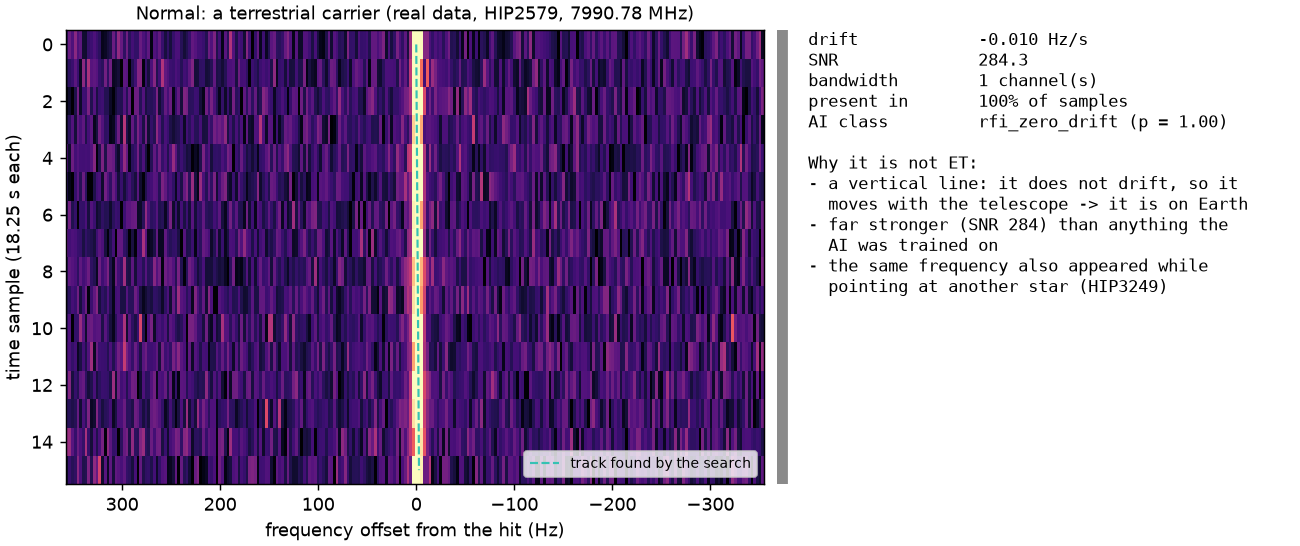
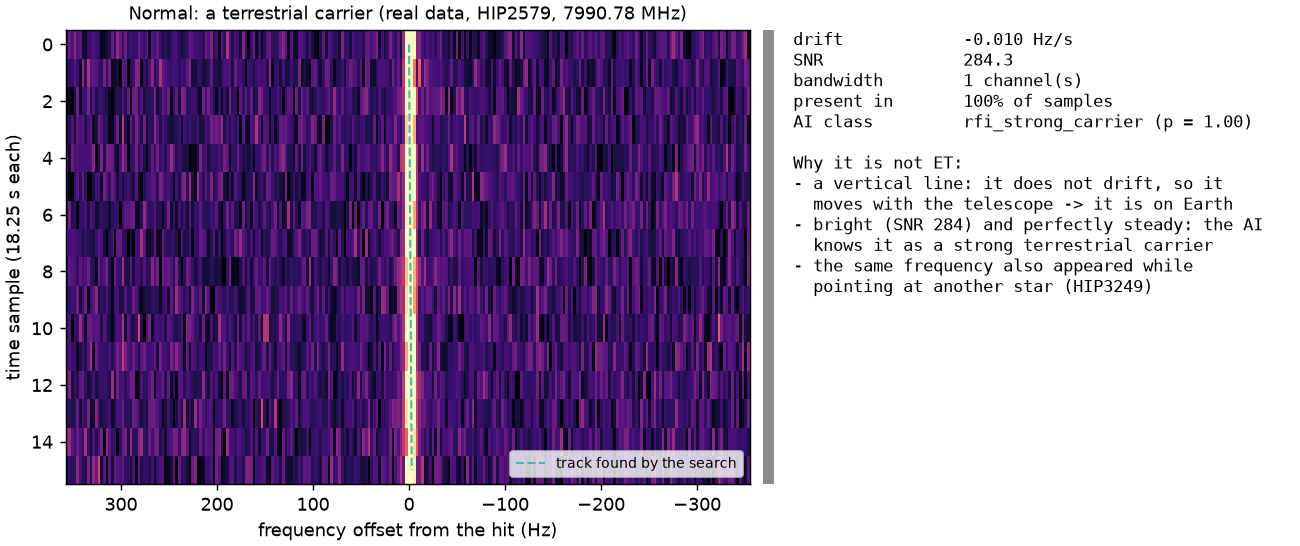
fix

diff --git a/tests/test_model_and_limits.py b/tests/test_model_and_limits.py
@@ -149,12 +149,12 @@ def test_score_candidates_reports_disabled_ai():
 def test_far_out_of_range_snr_is_not_trusted_as_technosignature():
     """B8: the classifier saturates at p=1 for any strong drifting carrier."""
     rows = pd.concat([_hit_frame("x")] * 2, ignore_index=True)
-    rows["snr"] = [20.0, 10_000.0]
+    rows["snr"] = [20.0, 100_000.0]
     rows["channel"] = [5, 900]
     for label in LABELS:
         rows[f"p_{label}"] = 1.0 if label == "technosignature_like" else 0.0
     cands = score_candidates([{"hits": rows.to_dict("records")}], SearchConfig())
-    strong = cands[cands["snr"] == 10_000.0].iloc[0]
+    strong = cands[cands["snr"] == 100_000.0].iloc[0]
     normal = cands[cands["snr"] == 20.0].iloc[0]
     assert strong["ai_class"] == "out_of_distribution" and strong["interest"] <= 50
     assert strong["interest"] <= 30, "B28: demoted like a stationary tone, not just capped"
@@ -323,7 +323,7 @@ def test_partial_range_units_are_padded_beyond_the_range_edges():
 def test_far_out_of_range_snr_is_capped_without_a_classifier():
     """B8 review: the heuristic fallback trusted a SNR-10,000 carrier just as blindly."""
     rows = _hit_frame("x")
-    rows["snr"] = 10_000.0
+    rows["snr"] = 100_000.0
     cands = score_candidates([{"hits": rows.to_dict("records")}], SearchConfig(use_ai=False))
     assert cands.iloc[0]["interest"] <= 50
 

diff --git a/src/ai_seti/ai/model.py b/src/ai_seti/ai/model.py
@@ -27,10 +27,10 @@ DEFAULT_MODEL = Path(__file__).with_name("hit_classifier.joblib")
 
 logger = logging.getLogger(__name__)
 
-# Highest hit SNR in the bundled model's training set (`ai-seti train` defaults: seed 0,
-# 500 per class; reproduced 2026-10-03). Used for models whose metadata predates the
-# recorded "snr_max". Above OOD_SNR_FACTOR x this, the trees only extrapolate flat, so
-# p(technosignature_like) means nothing there (backlog B8).
+# Fallback for models trained before "snr_max" was recorded in their metadata: the highest
+# hit SNR of the pre-2026-10-03 bundled model. Current models carry their own value. Above
+# OOD_SNR_FACTOR x the training maximum the trees only extrapolate flat, so p(...) means
+# nothing there.
 TRAINED_SNR_MAX = 40.24
 OOD_SNR_FACTOR = 3.0
 

diff --git a/docs/make_figures.py b/docs/make_figures.py
@@ -88,8 +88,8 @@ def normal() -> None:
                 "Why it is not ET:",
                 "- a vertical line: it does not drift, so it",
                 "  moves with the telescope -> it is on Earth",
-                f"- far stronger (SNR {h.snr:,.0f}) than anything the",
-                "  AI was trained on",
+                f"- bright (SNR {h.snr:,.0f}) and perfectly steady: the AI",
+                "  knows it as a strong terrestrial carrier",
                 "- the same frequency also appeared while",
                 "  pointing at another star (HIP3249)"],
             OUT / "signal_normal.png", "#8a8a8a")

diff --git a/README.md b/README.md
@@ -160,7 +160,7 @@ impostor.
 | **Only at the target** | A signal from a star is only seen when the telescope points at that star. | Same frequency, or a busy band, already seen at *another* star → `multi_target`; the ON/OFF cadence (`cadence = failed` cuts the score to a fifth) | anything picked up through the side of the beam |
 | **Not an instrument artefact** | GBT coarse channels make mirror copies of strong tones around each channel centre. | `mirror_pair`, `mirror_image` (score cut to a fifth) | the receiver's own spectral images |
 | **Outside known interference bands** | GPS, Galileo, Iridium, Inmarsat and others own fixed bands. | `known_rfi_band` (score halved) | satellites |
-| **Plausible strength** | The AI was trained on SNRs up to ~40. Far stronger tones are almost always nearby transmitters. | `out_of_distribution`: score cut by 70% and capped at 50 | strong terrestrial carriers |
+| **Plausible strength** | Strong, steady, slowly drifting tones are almost always nearby transmitters. | the AI's `rfi_strong_carrier` class; beyond 3× the strongest training signal, `out_of_distribution` (score cut by 70% and capped at 50) | strong terrestrial carriers |
 
 **What the drift tells you.** Drift is acceleration along the line of sight:
 `a = c × drift / frequency`. Earth's own rotation gives about 0.03 m/s², which is about
@@ -231,8 +231,7 @@ The technical one-screen version is [How a work unit is processed](#how-a-work-u
 runs the strongest test, pointing away and back (the ON/OFF cadence), automatically when it
 processes the *target* scan of an archive cadence. It searches the same channels in the other
 five scans, and each hit's `cadence` column says `passed`, `failed`, `untestable` (an OFF
-pointing, or too few scans) or `not_run`. A pass still needs a re-observation, and the
-classifier has only seen slower drifts than the search covers (backlog B3).
+pointing, or too few scans) or `not_run`. A pass still needs a re-observation.
 
 ## Where unusual signals end up, and how to report them
 
@@ -282,7 +281,7 @@ one; it only changes labels and the order of the list.
 | Is there a narrow line in the data, and how does it drift? | **search** (deterministic) | bandpass removal, Taylor-tree de-Doppler, SNR threshold |
 | How wide, steady and wobbly is it? | **search** | measured features of each hit |
 | Is it in a satellite band, a mirror image, seen at another star, unmeasurable in drift? | **search** (rules) | the flags in `candidates.csv` |
-| Does it *look like* an ET-like tone or a known kind of interference? | **AI: classifier** | gradient-boosted trees on the features + a 16×16 de-drifted image, trained on simulated hits that went through this exact pipeline; 6 classes (`technosignature_like`, 4 interference shapes, `noise`) |
+| Does it *look like* an ET-like tone or a known kind of interference? | **AI: classifier** | gradient-boosted trees on the features + a 16×16 de-drifted image, trained on simulated hits that went through this exact pipeline, over the full drift range; 7 classes (`technosignature_like`, 5 interference types including `rfi_strong_carrier`, `noise`) |
 | Is it unlike everything else in this observation? | **AI: anomaly detector** | an isolation forest fitted fresh on each run's hits; 0–1 |
 | How interesting is it overall? | **both** | `interest = 100 × (0.55 × p(ET-like) + 0.20 × f(SNR) + 0.25 × anomaly)`, then the rule penalties (zero drift ×0.3, RFI band ×0.5, wider than 8 channels ×0.4, mirror ×0.2, seen elsewhere ×0.2) and, for `out_of_distribution`, ×0.3 and a cap of 50 |
 
@@ -449,8 +448,8 @@ noise-only 16×16384 chunks raise any detection; 20 trials per cell; `ai-seti be
 
 **Demo:** 1,048,576 channels in **2.4 s wall / 2.3 s CPU on one core** (1.8 s wall on 4
 workers); the three hidden ET-like tones are recovered and rank **#1, #2 and #3**, all
-classified `technosignature_like`, ahead of the strongest RFI (interest 74–82 vs 28–32).
-Classifier: **95.7%** held-out accuracy on 6 classes (simulated; 2500 examples).
+classified `technosignature_like`, ahead of the strongest RFI (interest 72–78 vs 33, with the 2026-10-03 model).
+Classifier: **97.7%** held-out accuracy on 7 classes (simulated; 3,500 examples, 500 per class, drift up to 32 channels/step).
 
 ## How a work unit is processed
 
@@ -475,17 +474,18 @@ run level: isolation-forest anomaly → RFI flags → interest score → report
 - `max_drift_ch_per_step` (default 32) bounds the search. At a GBT coarse channel's
   ~18 s / 2.79 Hz resolution, 4 Hz/s is already ~26 channels per step, so lowering this
   below that number silently throws away signals the rate limit allows.
-- **`drift_search` will not tell you when it could not search the range you asked for.** If
-  the searched drift clamps to zero — a `foff` passed in Hz instead of MHz, a cap below the
-  rate, or a resolution too coarse for the requested drift — it reports *no hits* instead of
-  flagging a degraded run. Absence of detections is not evidence of absence until you have
-  checked the range was searchable. Tracked as [backlog B1/B2](backlog.md).
-- **The classifier is trained on drift of 0.05–6 channels/step but production needs up to
-  ~26.** Its class labels are least reliable in the fast-drift regime the search spends most
-  of its time in, and the published 95.7% accuracy is measured on the training distribution,
-  not on production drift. Tracked as [backlog B3](backlog.md).
-- BL archive API and Range streaming against the real servers were not tested from the
-  development sandbox (network-restricted); Range streaming is tested locally.
+- **A search narrower than asked for is reported, not hidden.** If a work unit is too narrow
+  for the requested drift, `drift_search` logs a warning and `metadata.json` records the drift
+  range actually covered (`drift_searched_hz_s`). A channel width passed in Hz instead of MHz is
+  rejected outright.
+- **The classifier's numbers are measured on simulated data.** It is trained over the whole
+  production drift range (log-uniform up to 32 channels/step) and includes a strong-carrier
+  interference class. Held-out accuracy is 97.7%, and ET-like recall by drift band is 1.00 up to
+  12 channels/step and 0.96 at 12–33 (stored in the model's metadata). Real RFI is still richer
+  than the simulator.
+- Breakthrough Listen archive queries, Range streaming and cadence folders have been run
+  against the real servers (2026-10-03); throughput there is ~7–8 MB/s, so downloads, not
+  analysis, set the pace.
 - GPU (CuPy) path is experimental and untested, and excluded from CI. Multi-core speedup
   was not benchmarked on the development machine, though the multiprocess path is
   exercised by tests and the smoke job.

diff --git a/backlog.md b/backlog.md
@@ -5,9 +5,10 @@ Author: Inventions4All — github:TWeb79
 Applies to: **v0.3.0**. Opened at the end of the 0.3.0 hardening pass
 (see [implementationplan.md](implementationplan.md)).
 
-Fixed items are removed from this file once done (last cleanup 2026-10-03: B39, B44, B43, B42, B40, B38, B7, B37, B36, B29, B19, B28, B10, B31, B33, B34, B35, B32, B30, B21, B27, B15, B1, B2, B22, B23, B24, B25, B26, B16, B14, B17, B12, B4, B5, B6, B8,
-B9, B11, B13, B18, B20, B7(b) and B19's labelling). Their write-ups, the two real-data runs of
-2026-10-03 and the regression tests that pin them are in git history.
+Fixed items are removed from this file once done. As of 2026-10-03 everything from B1 to B44 is
+fixed, or closed with a measured reason (B10, B40). The write-ups, the real-data runs of
+2026-10-03 and the regression tests that pin them are in git history; the performance
+measurements are kept below because they still describe how `crunch` spends its time.
 
 Items are sorted by severity, then by the order they should be fixed in. **IDs are stable and
 must not be renumbered** — other documents and the tables below cross-reference them.
@@ -19,45 +20,14 @@ a plausible configuration · **low** = quality, debt or hygiene.
 
 | ID | Severity | Summary | Area |
 |---|---|---|---|
-| B41 | low | An OFF scan crunched on its own re-downloads ranges its cadence already searched (cadence-to-cadence reuse is done) | `cli.py`, `state.py` |
-| B3 | high | The classifier never sees the drift regime it must score in production | `ai/model.py` |
 
-**Suggested order.** The performance findings of 2026-10-03 (B38–B44): B38 first (a one-line
-change, the biggest gain in `--forever` mode), then B39 (status), B42 (process pool),
-B41 (cadence cost), B43, B44. Then B3 (retrain).
+**Nothing is pending.** Every item found so far is fixed or closed; add new ones above.
 
 ---
 
 # Bugs
 
 ## High
-
-### B3 — the classifier never sees the drift regime it has to score in production
-
-`ai/model.py:40` builds training examples with `n_chan=4096, max_drift=6.0`, and
-`ai/simulate.py:89` draws `technosignature_like` drift from `uniform(0.05, max_drift)`, i.e.
-**0.05–6 channels/step**. Production on a GBT coarse channel is ~2.794 Hz / 18.25 s, where
-the 4 Hz/s rate limit is already **~26 channels/step** (README documents this).
-
-So the model is trained exclusively on slow drift and is asked to classify fast drift. Its
-class labels are least reliable in exactly the regime the search spends most of its time in.
-The 95.7% held-out accuracy figure in the README is measured on the training distribution and
-does not transfer.
-
-**Fix.** Widen `max_drift` (and probably `n_chan`) in `_training_example` to cover the
-production range, then retrain and re-measure. Report accuracy as a function of drift.
-
-**Note.** A sweep over a production-regime training set was started and abandoned — the run
-cost is high (27 Taylor-tree passes per sign per example, ~0.27 s/example, and rejected
-examples are retried up to `n_per_class * 4` times). Budget for a reduced sweep before
-committing to it.
-
-**Also in this retrain.** The bundled model predates the B20 fix, so its noise class has ~110
-examples instead of 500; a retrain with the current code fills it (55 s, accuracy 0.963 vs
-0.957, measured 2026-10-03). Add a strong-carrier RFI class to the simulator (high SNR, slow
-drift), the open part of the former B8. Strong, slowly drifting carriers are among the most
-common terrestrial RFI, and the classifier has never seen one. Until then the SNR guard in
-`ai.model.ood_snr_limit` labels such hits `out_of_distribution`.
 
 ## Performance of `crunch --forever` (analysed 2026-10-03)
 
@@ -79,20 +49,6 @@ The search itself is not the bottleneck: the CPU workers wait on the network ~95
 time. The levers are, in order: don't sleep while work is waiting (B38), make each byte cheaper
 to fetch (B40), don't fetch the same bytes twice (B41), and stop paying fixed costs per
 observation (B42, B43).
-
-### B41 — an OFF scan crunched on its own re-downloads ranges its cadence already searched
-
-Half done. Every searched (scan, channel range) now caches its hits under `data/cache/hits/`
-(keyed by URL, range, search settings and scoring version), and the cadence step reads the
-cache before downloading. So the 2nd and 3rd target scans of a cadence download only
-themselves (test: `test_cadence_reuses_scans_already_searched`, 4 → 1 searches). What remains:
-when the archive later returns an OFF scan (e.g. HIP2579) as an observation of its own, `crunch`
-downloads ranges the cadence step already searched, because its report needs full per-unit
-results (spikes, thumbnails, timings), not just hits.
-
-**Fix.** Either cache full unit results (bigger, but complete), or let `crunch` build the
-report for such a range from the cached hits and skip the download, marking the report "from
-cadence search".
 
 ## Medium
 
@@ -141,6 +97,12 @@ These are documented honestly in the README but have no plan attached:
 
 ## Verified — *not* bugs
 
+
+**"Non-power-of-two time samples double the Taylor-tree cost" (B10).** True (0.70 s at T = 279
+vs 0.31 s at T = 256 on 32k channels), but closed 2026-10-03: no Breakthrough Listen product
+reaches that path any more. High-res files have T = 16, and mid-res files skip the tree
+because drift is unmeasurable there (and `crunch` now skips them). Revisit only if a product
+with a non-power-of-two T *and* measurable drift turns up.
 
 **"Keep-alive connections, fewer threads or prefetching will speed up `crunch`."** Tried and
 measured 2026-10-03 (B40), then reverted. A kept-alive connection carries about twice the data

diff --git a/implementationplan.md b/implementationplan.md
@@ -2,19 +2,15 @@
 
 Author: Inventions4All — github:TWeb79
 
-Pending work only. Completed tasks are removed once done; the last cleanup (2026-10-03)
-removed tasks 1–35 from the 0.3.0 hardening pass and the backlog fixes B39, B44, B43, B42, B40, B38, B7, B37, B36, B29, B19, B28, B10, B31, B33, B34, B35, B32, B30, B21, B27, B15, B1, B2, B22, B23, B24, B25, B26, B16, B14, B17, B12, B4, B5, B6, B8, B9,
-B11, B13, B18, B20 and B7(b). Their test plans and verification notes are in git history. Each
-task below links to its full write-up in [backlog.md](backlog.md).
+Pending work only. Completed tasks are removed once done. The cleanup of 2026-10-03 removed
+tasks 1–35 of the 0.3.0 hardening pass and every backlog item from B1 to B44: all fixed, except
+B10 and B40, which were closed with measured reasons (see "Verified — not bugs" in
+[backlog.md](backlog.md)). Their write-ups, test plans and verification notes are in git
+history.
 
 ## Task list
 
-In the backlog's suggested order. Tasks 1–6 are the documentation pass, high priority.
-
-| # | Task | Backlog | Module | Status |
-|---|---|---|---|---|
-| 1 | Reuse cadence-searched ranges when an OFF scan is crunched on its own | B41 | `cli.py`, `state.py` | pending |
-| 2 | Retrain on the production drift range, plus a strong-carrier RFI class (also refills the bundled model's noise class) | B3 | `ai/model.py`, `ai/simulate.py` | pending |
+No pending tasks. New work starts as an item in [backlog.md](backlog.md).
 
 ## Test debt
 

diff --git a/ARCHITECTURE.md b/ARCHITECTURE.md
@@ -112,7 +112,7 @@ AI-SETI is a local CLI. There is no server, no database and no always-on daemon.
 | Server ignores `Range` | `RangeNotSupported` → the source falls back to a size-guarded download |
 | Classifier will not load | logged, `model_unavailable`, heuristic fallback, `ai_note` in metadata |
 | Ledger write | unique per-PID temp file then `os.replace`, so a partial file is never published |
-| Searched drift range collapses to zero | **not handled.** `drift_search` clamps `k_max` silently, so an unsearchable drift rate yields "no hits" rather than a degraded run. See [backlog.md](backlog.md) B1/B2. |
+| Searched drift range narrower than requested | `drift_search` logs a warning naming the rate it could reach; `metadata.json` records `drift_searched_hz_s`; a channel width given in Hz instead of MHz raises `ValueError`. |
 | Reported drift exceeds the ceiling | `drift_search` skips tree rows past `max_drift_rate_hz_s`, so a reported rate is always inside the configured range. |
 | Server stops sending a Range body | `remote_header` stops on lack of progress, bounded by `max_requests`, and raises `ValueError` naming the URL |
 
